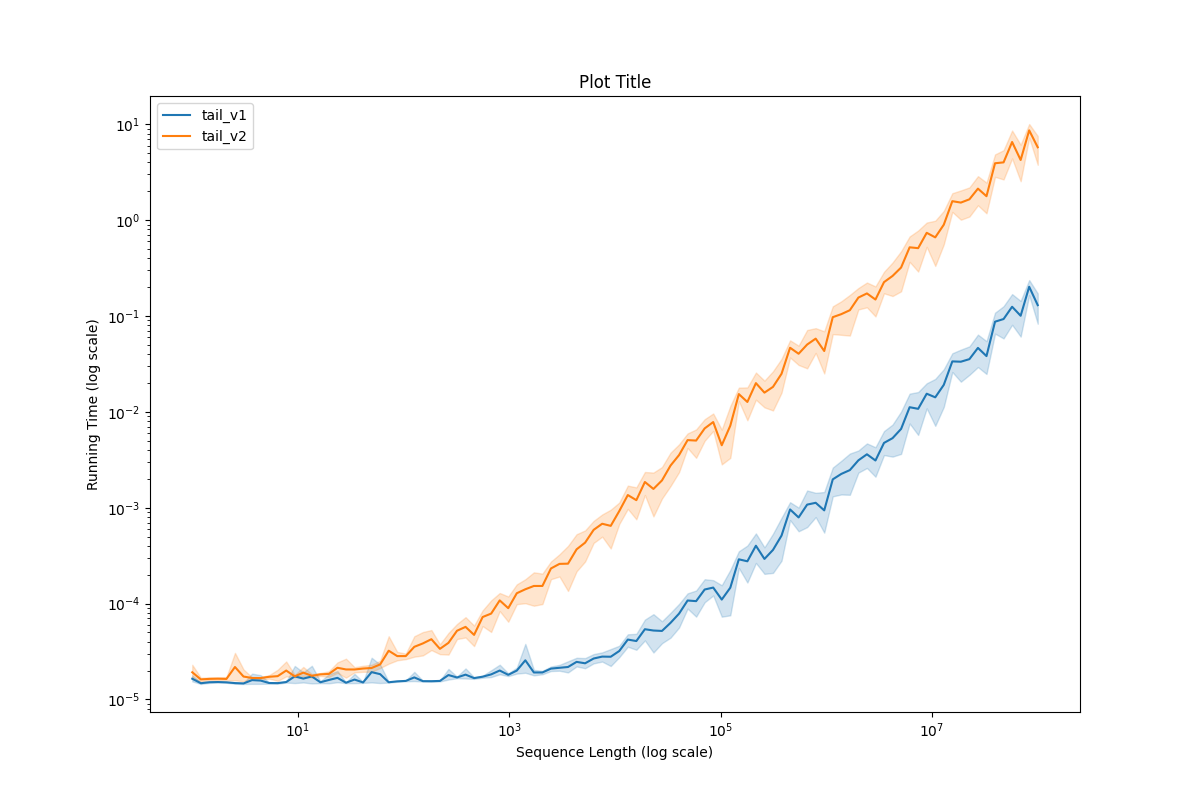
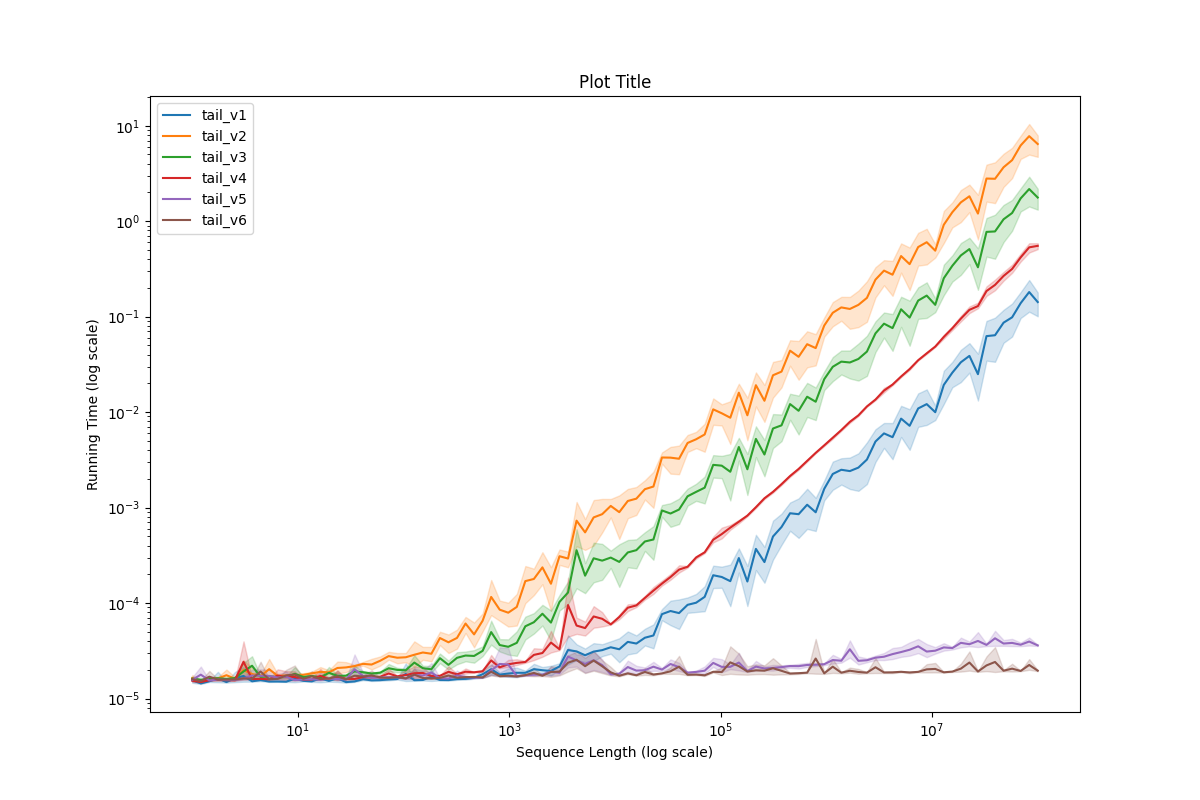
More tails.

Changed region(s): [[0.1542, 0.1562, 0.8633, 0.875], [0.1233, 0.1875, 0.2158, 0.2812], [0.0925, 0.625, 0.1233, 0.6562]]

diff --git a/tail.py b/tail.py
@@ -1,4 +1,5 @@
-import cProfile, pstats, random, os, collections
+import cProfile, pstats, random, os
+from collections import deque, defaultdict
 import pandas as pd
 import matplotlib.pyplot as plt
 import numpy as np
@@ -21,8 +22,32 @@ def tail_v2(sequence, n):
 		result.append(sequence[i])
 	return result
 
+# List comp
+def tail_v3(sequence, n):
+	return [sequence[-i] for i in range(n, 0, -1)]
+
+# Deque for fun
+def tail_v4(sequence, n):
+	return deque(sequence, maxlen=n)
+
+# Return a generator for sequence. ONLY USE IF SEQUENCE WONT CHANGE AFTER CALL!
+def tail_v5(sequence, n):
+	def generator():
+		for index in range(n, 0, -1):
+			yield sequence[-index]
+	return generator()
+
+# a space efficient generator for sequence. ONLY USE IF SEQUENCE WONT CHANGE AFTER CALL!
+def tail_v6(sequence, n):
+	def generator():
+		index = n + 1
+		while index > 1:
+			index -= 1
+			yield sequence[-index]
+	return generator()
+
 # name of functions that are profiled
-functions = [tail_v1, tail_v2]
+functions = [tail_v1, tail_v2, tail_v3, tail_v4, tail_v5, tail_v6]
 
 # Returning trials-many running times of each function with sequence of 
 # total_numbers ints and a random (valid) n.
@@ -71,11 +96,12 @@ def plot_prof_data(prof_data):
 	ax.set_yscale('log', base=10)
 
 	plt.savefig('/mnt/c/Users/Trey/Downloads/myplot.png')
+	plt.savefig('./myplot.png')
 	return
 
 if __name__ == "__main__":
 	# results[function name] = [running times of funtion]
-	prof_data = collections.defaultdict(list)
+	prof_data = defaultdict(list)
 
 	sequence_sizes = np.geomspace(1, MAX_SEQ_SIZE, NUM_TRIALS)
 	for sequence_size in sequence_sizes:
